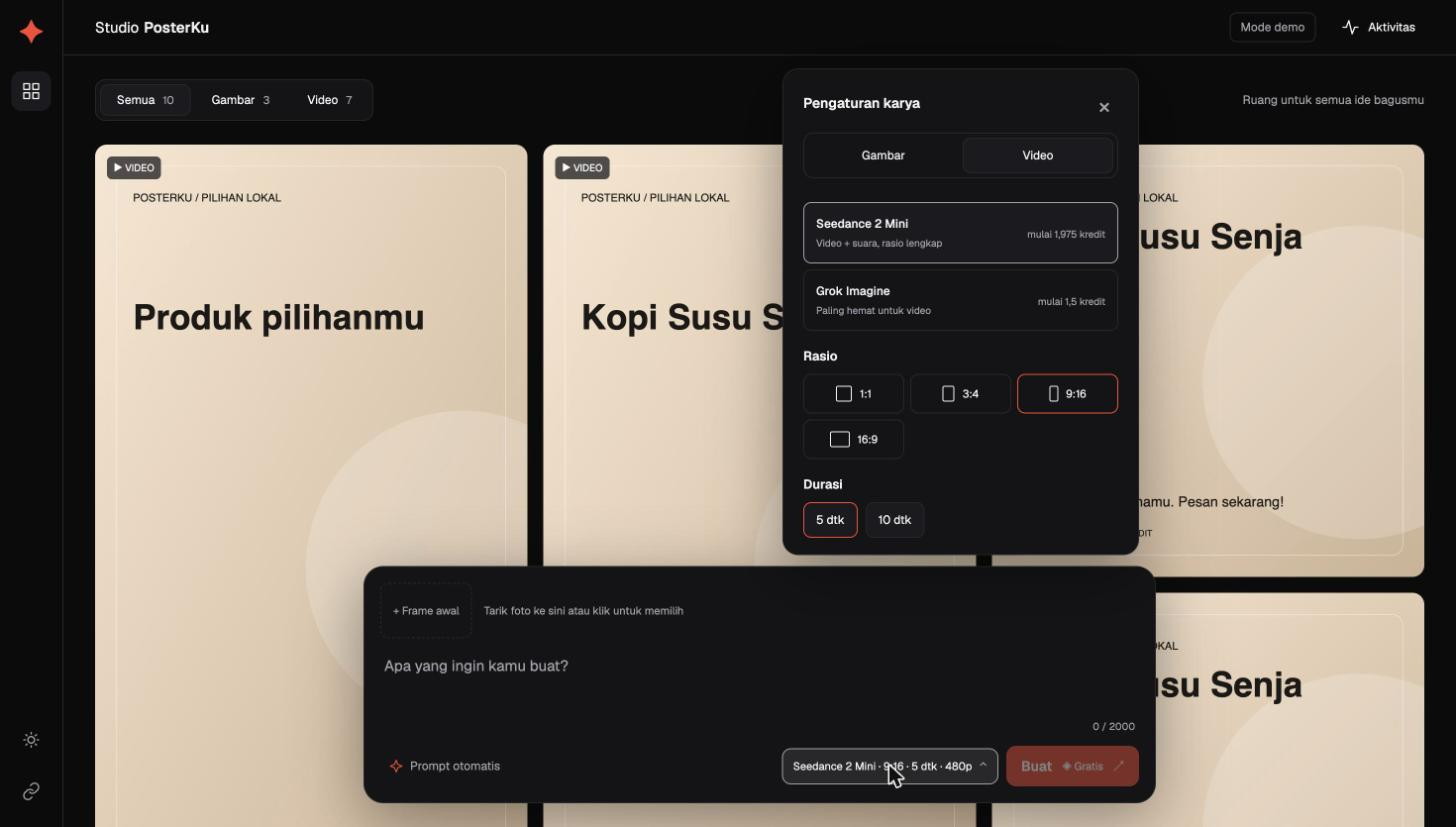
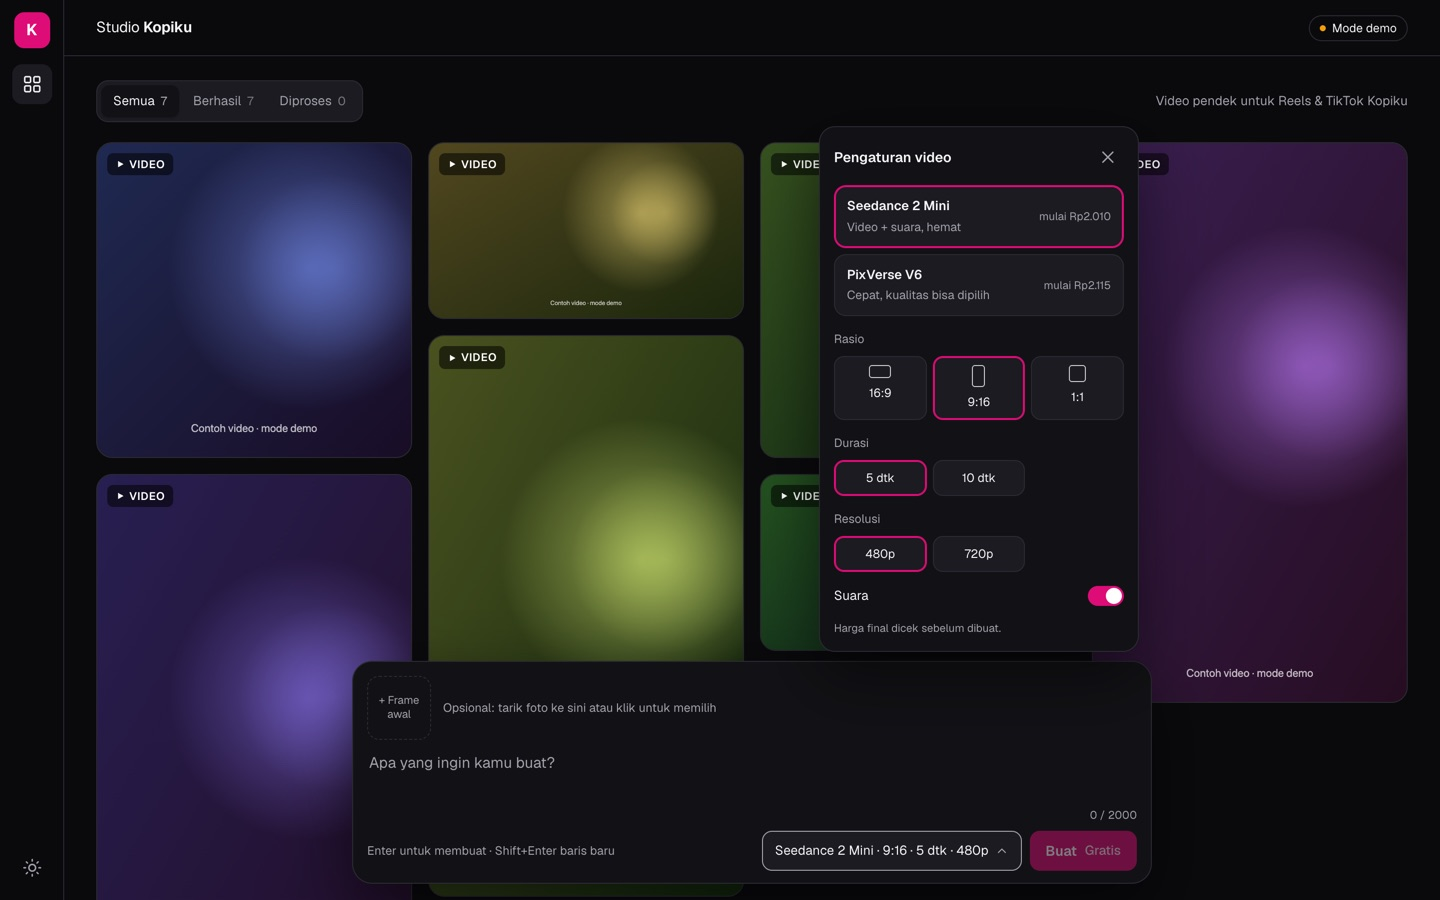
Screenshot acuan studio video baru + perbaikan Next.js 16.4 di bekal
- referensi-tampilan: 10 screenshot dari studio contoh (aksen #de0c77,
  khusus video) menggantikan screenshot PosterKu
- TAMPILAN-VIDEOGEN: aturan "teks menang atas gambar", larangan gaya
  generik, grid 4 kolom, nama kelas tidak boleh bentrok dengan Tailwind
- BLUEPRINT-TEKNIS: jangan menimpa next.config.ts, tanpa export runtime,
  !.env.example, hapus tmp-app/.git

diff --git a/starter/bekal/TAMPILAN-VIDEOGEN.md b/starter/bekal/TAMPILAN-VIDEOGEN.md
@@ -2,27 +2,44 @@
 
 Targetnya: rasa seperti **Video Generator di yorai.id** (gaya "Flow"):
 layar hasil yang lega, composer melayang di bawah, pengaturan di popover.
-Tiru **tata letak dan nuansa**, bukan logo atau nama Yorai/PosterKu. Pakai
+Tiru **tata letak dan nuansa**, bukan logo atau nama Yorai, dan bukan nama "Kopiku" dari screenshot. Pakai
 nama studio Bos dari `AGENTS.md`. Boleh ada teks kecil "Ditenagai API Yorai"
 di pengaturan atau footer.
 
-Screenshot acuan ada di `bekal/referensi-tampilan/` (dari contoh aplikasi
-"PosterKu Studio" yang meniru Yorai). Buka dan lihat gambarnya sebelum
-membuat tampilan:
+Screenshot acuan ada di `bekal/referensi-tampilan/`. Semuanya diambil dari
+studio contoh "Studio Kopiku" yang dibangun persis dari dokumen ini (mode demo,
+aksen `#de0c77`). Buka dan lihat gambarnya sebelum membuat tampilan:
 
 | File | Yang ditiru |
 |---|---|
-| `01-studio-grid.jpg` | tata letak utama: rail kiri, topbar, tab, grid hasil, composer melayang |
-| `02-studio-kosong.jpg` | keadaan kosong + contoh prompt |
-| `03-popover-pengaturan.jpg` | popover pengaturan: model, rasio, durasi, kualitas |
-| `05-kartu-progres.jpg` | kartu yang sedang diproses |
+| `01-studio-grid.jpg` | tata letak utama: rail kiri, topbar, tab, grid masonry, composer melayang |
+| `02-studio-kosong.jpg` | keadaan kosong + chip contoh prompt |
+| `03-popover-pengaturan.jpg` | popover pengaturan: model, rasio, durasi, resolusi, suara |
+| `04-kartu-gagal.jpg` | kartu gagal + tab "Gagal" |
+| `05-kartu-progres.jpg` | kartu yang sedang diproses + pesan batas 3 video |
 | `06-viewer.jpg` | tampilan detail satu hasil |
 | `07-tema-terang.jpg` | mode terang |
 | `08-hp-390px.jpg` | tampilan HP |
+| `09-hp-pengaturan.jpg` | pengaturan di HP sebagai lembar dari bawah |
+| `10-kode-akses.jpg` | layar kode akses (dengan pesan salah) |
 
-(`04-prompt-otomatis.jpg` hanya untuk bonus "Bantu tulis prompt".)
+**Aturan prioritas:** nama studio, teks contoh, dan warna aksen di screenshot
+hanyalah contoh ("Kopiku"). Pakai nama, contoh prompt, dan warna dari cerita
+Bos. Bila gambar dan teks dokumen ini berbeda, **ikuti teks dokumen ini**.
+Gambar kotak berwarna di kartu adalah hasil mode demo, bukan desain kartu.
+
+**Jangan** menambah gradien dekoratif, efek kaca buram (glassmorphism) di
+luar topbar, emoji sebagai ikon, ilustrasi, atau library UI. Tampilan harus
+netral dan tenang; warna hanya dari token di bawah, aksen hanya untuk tombol
+utama, pilihan aktif, sakelar, dan bar progres.
 
 ## Warna (token CSS di `globals.css`)
+
+**Nama kelas CSS:** proyek memakai Tailwind, jadi jangan memberi nama kelas
+buatan sendiri yang sama dengan kelas Tailwind (`grid`, `flex`, `hidden`,
+`block`, `container`, `columns-*`, dan sejenisnya). Contoh: pakai `.gallery`,
+bukan `.grid`, untuk grid hasil; kalau tidak, grid berubah jadi satu kolom
+besar.
 
 Gelap adalah bawaan; terang lewat tombol tema. Simpan pilihan tema di
 `localStorage`.
@@ -48,10 +65,10 @@ dan popover.
 │◆ │ Nama Studio                     [Mode demo] [Saldo] [⋯] │ topbar 56px
 │▦ ├──────────────────────────────────────────────────────────┤
 │  │ [Semua 9] [Berhasil] [Diproses]                          │
-│  │ ┌────────┐ ┌────────┐ ┌────────┐                         │
-│  │ │ video  │ │ video  │ │ video  │   grid masonry 3 kolom  │
-│  │ │        │ └────────┘ │        │   (CSS columns)         │
-│☀ │ └────────┘            └────────┘                         │
+│  │ ┌──────┐ ┌──────┐ ┌──────┐ ┌──────┐                     │
+│  │ │video │ │video │ │video │ │video │ grid masonry 4 kolom│
+│  │ │      │ └──────┘ │      │ │      │ (CSS columns)       │
+│☀ │ └──────┘          └──────┘ └──────┘                     │
 │🔒│      ┌───────────────────────────────────────┐           │
 │  │      │ [+ Frame awal]                         │ composer │
 │  │      │ Apa yang ingin kamu buat?              │ melayang │
@@ -66,7 +83,9 @@ dan popover.
 - **Topbar**: nama studio (kata kedua tebal), di kanan lencana "Mode demo"
   (bila demo) dan sisa saldo (bila tersedia), semuanya kecil dan redup.
 - **Tab filter** dalam satu kotak `surface-2` dengan angka jumlah.
-- **Grid**: masonry 3 kolom, jarak 16px, kartu mengikuti rasio videonya.
+- **Grid**: masonry dengan CSS `columns`: 4 kolom di layar ≥ 1280px, 3 kolom
+  di 1024–1279px, 2 kolom di bawahnya; jarak 16px, kartu mengikuti rasio
+  videonya.
   Beri ruang kosong di bawah grid setinggi composer supaya kartu terakhir
   tidak tertutup.
 - **Composer**: `position: sticky/fixed` di bawah tengah, lebar

diff --git a/starter/bekal/BLUEPRINT-TEKNIS.md b/starter/bekal/BLUEPRINT-TEKNIS.md
@@ -13,6 +13,14 @@ cerita Bos yang menang, selama aturan keamanan di `AGENTS.md` tetap terpenuhi.
   Setelah instalasi, baca panduan yang relevan di
   `node_modules/next/dist/docs/` sebelum menulis route atau konfigurasi.
 
+### Jangan menimpa `next.config.ts`
+
+Di Next.js terbaru, `next.config.ts` bawaan berisi pengaturan penting
+(misalnya `cacheComponents` dan sambungan Tailwind lewat `turbopack.rules`).
+**Tambahkan** pengaturan baru (misalnya `headers()`) ke objek yang ada; jangan
+menulis ulang filenya. Bila tampilan tiba-tiba tanpa gaya atau build
+memperingatkan `Unknown at rule: @theme`, berarti sambungan Tailwind hilang.
+
 ### Membuat proyek di folder yang sudah berisi file
 
 Folder ini sudah berisi `AGENTS.md`, `.agents/`, dan `bekal/`, sehingga
@@ -20,15 +28,16 @@ Folder ini sudah berisi `AGENTS.md`, `.agents/`, dan `bekal/`, sehingga
 
 1. Buat di subfolder sementara, misalnya
    `npx create-next-app@latest tmp-app --ts --tailwind --eslint --app --src-dir --use-npm --import-alias "@/*" --yes`.
-2. Pindahkan semua isi `tmp-app/` (termasuk file berawalan titik) ke folder
-   utama, **kecuali** `AGENTS.md`, `CLAUDE.md`, dan `README.md` milik
-   `tmp-app`. Kalau `AGENTS.md` dari `tmp-app` berisi blok aturan Next.js,
+2. Hapus `tmp-app/.git` (riwayat git bawaan create-next-app), lalu pindahkan
+   semua isi `tmp-app/` (termasuk file berawalan titik) ke folder utama,
+   **kecuali** `AGENTS.md`, `CLAUDE.md`, dan `README.md` milik `tmp-app`. Kalau `AGENTS.md` dari `tmp-app` berisi blok aturan Next.js,
    salin blok itu ke **bagian paling atas** `AGENTS.md` kita, jangan menimpa
    isi lainnya.
 3. Hapus `tmp-app/`, jalankan `npm install` bila perlu, lalu
    `npm run dev` dan pastikan `http://localhost:3000` terbuka.
-4. Pastikan `.gitignore` memuat `.env*` (kecuali `.env.example`),
-   `node_modules`, `.next`, `.vercel`. Lalu `git init` (bila belum) dan commit
+4. Pastikan `.gitignore` memuat `.env*` **dan** baris `!.env.example`
+   (bawaan create-next-app ikut mengabaikan `.env.example`), `node_modules`,
+   `.next`, `.vercel`. Lalu `git init` (bila belum) dan commit
    pertama: `Mulai proyek studio video`.
 
 ## 2. Arsitektur
@@ -149,7 +158,10 @@ Perkiraan untuk Bos (cek ulang dengan `/quote`, harga bisa berubah):
 ## 5. Route server
 
 Semua route kecuali `login` dan `status` **wajib mengecek sesi** (bagian 7).
-Semua route memakai `export const runtime = "nodejs"`.
+Route berjalan di Node.js secara bawaan. **Jangan** menambah
+`export const runtime = …`: Next.js terbaru dengan `cacheComponents` menolak
+build bila ada baris itu. Di route dinamis, `params` berupa Promise
+(`const { id } = await ctx.params`).
 
 | Route | Gunanya |
 |---|---|
